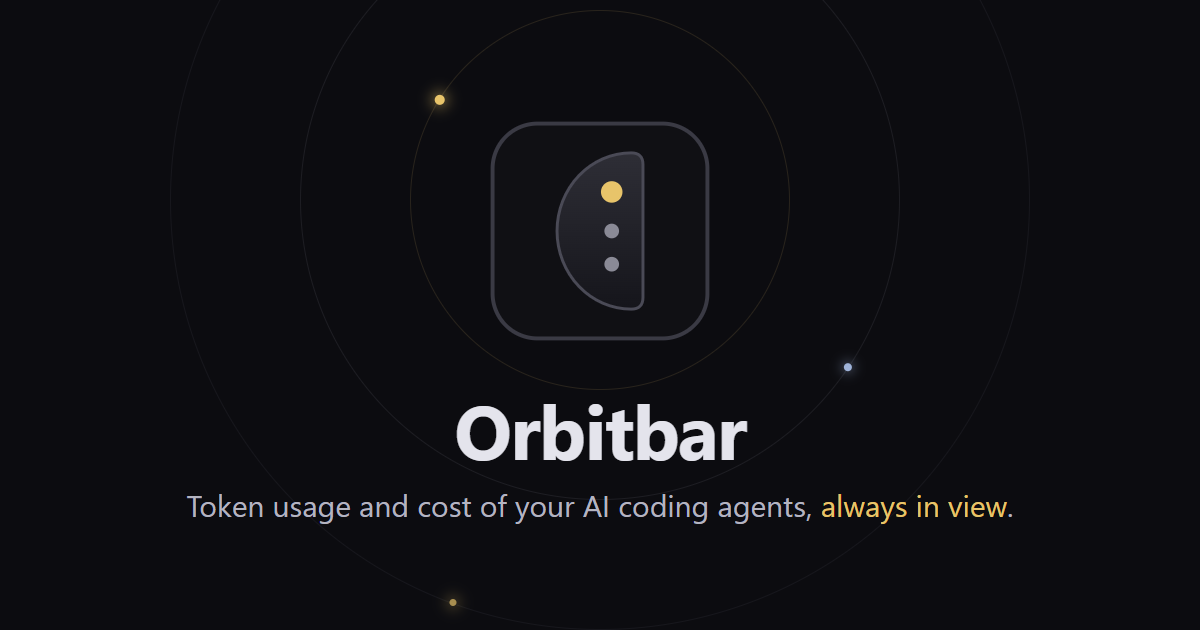
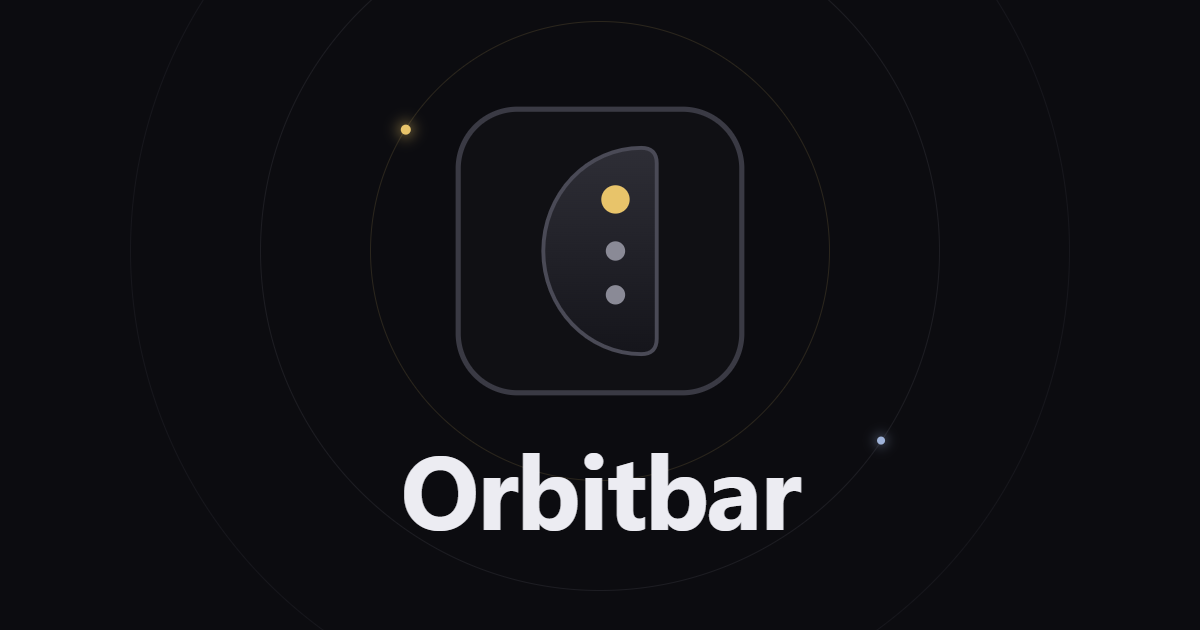
fix(site): make the share thumbnail readable
WhatsApp crops the centered square of og:image for its thumbnail, which cut the tagline mid-word. The image now shows only the larger icon and name inside that square, and og:image gets ?v=2 so cached previews refresh.

diff --git a/site/index.html b/site/index.html
@@ -12,11 +12,11 @@
 <meta property="og:description" content="The token usage and cost of your AI coding agents, always in view. Free and open source for Windows, macOS and Linux.">
 <meta property="og:url" content="https://montesgp.github.io/orbitbar/">
 <meta property="og:site_name" content="Orbitbar">
-<meta property="og:image" content="https://montesgp.github.io/orbitbar/og-image.png">
+<meta property="og:image" content="https://montesgp.github.io/orbitbar/og-image.png?v=2">
 <meta property="og:image:type" content="image/png">
 <meta property="og:image:width" content="1200">
 <meta property="og:image:height" content="630">
-<meta property="og:image:alt" content="The Orbitbar icon inside gold orbits, above its name and tagline: Token usage and cost of your AI coding agents, always in view">
+<meta property="og:image:alt" content="The Orbitbar icon inside gold orbits, above its name">
 <meta name="twitter:card" content="summary_large_image">
 <link rel="icon" href="icon.svg" type="image/svg+xml">
 <link rel="stylesheet" href="style.css">

diff --git a/CONTRIBUTING.md b/CONTRIBUTING.md
@@ -134,5 +134,7 @@ locally, for example with `python -m http.server --directory site`, and open
 the printed address.
 
 `site/og-image.png` (1200×630) is the preview that chats and social networks
-show when the link is shared, referenced by the `og:image` tags in
-`index.html`. Regenerate it when the icon or the tagline changes.
+show when the link is shared: the icon and the name, kept inside the centered
+630×630 square that WhatsApp crops for its thumbnail. It is referenced by the
+`og:image` tags in `index.html`; when you regenerate it, bump the `?v=` in
+`og:image` so apps that cached the old one fetch it again.
